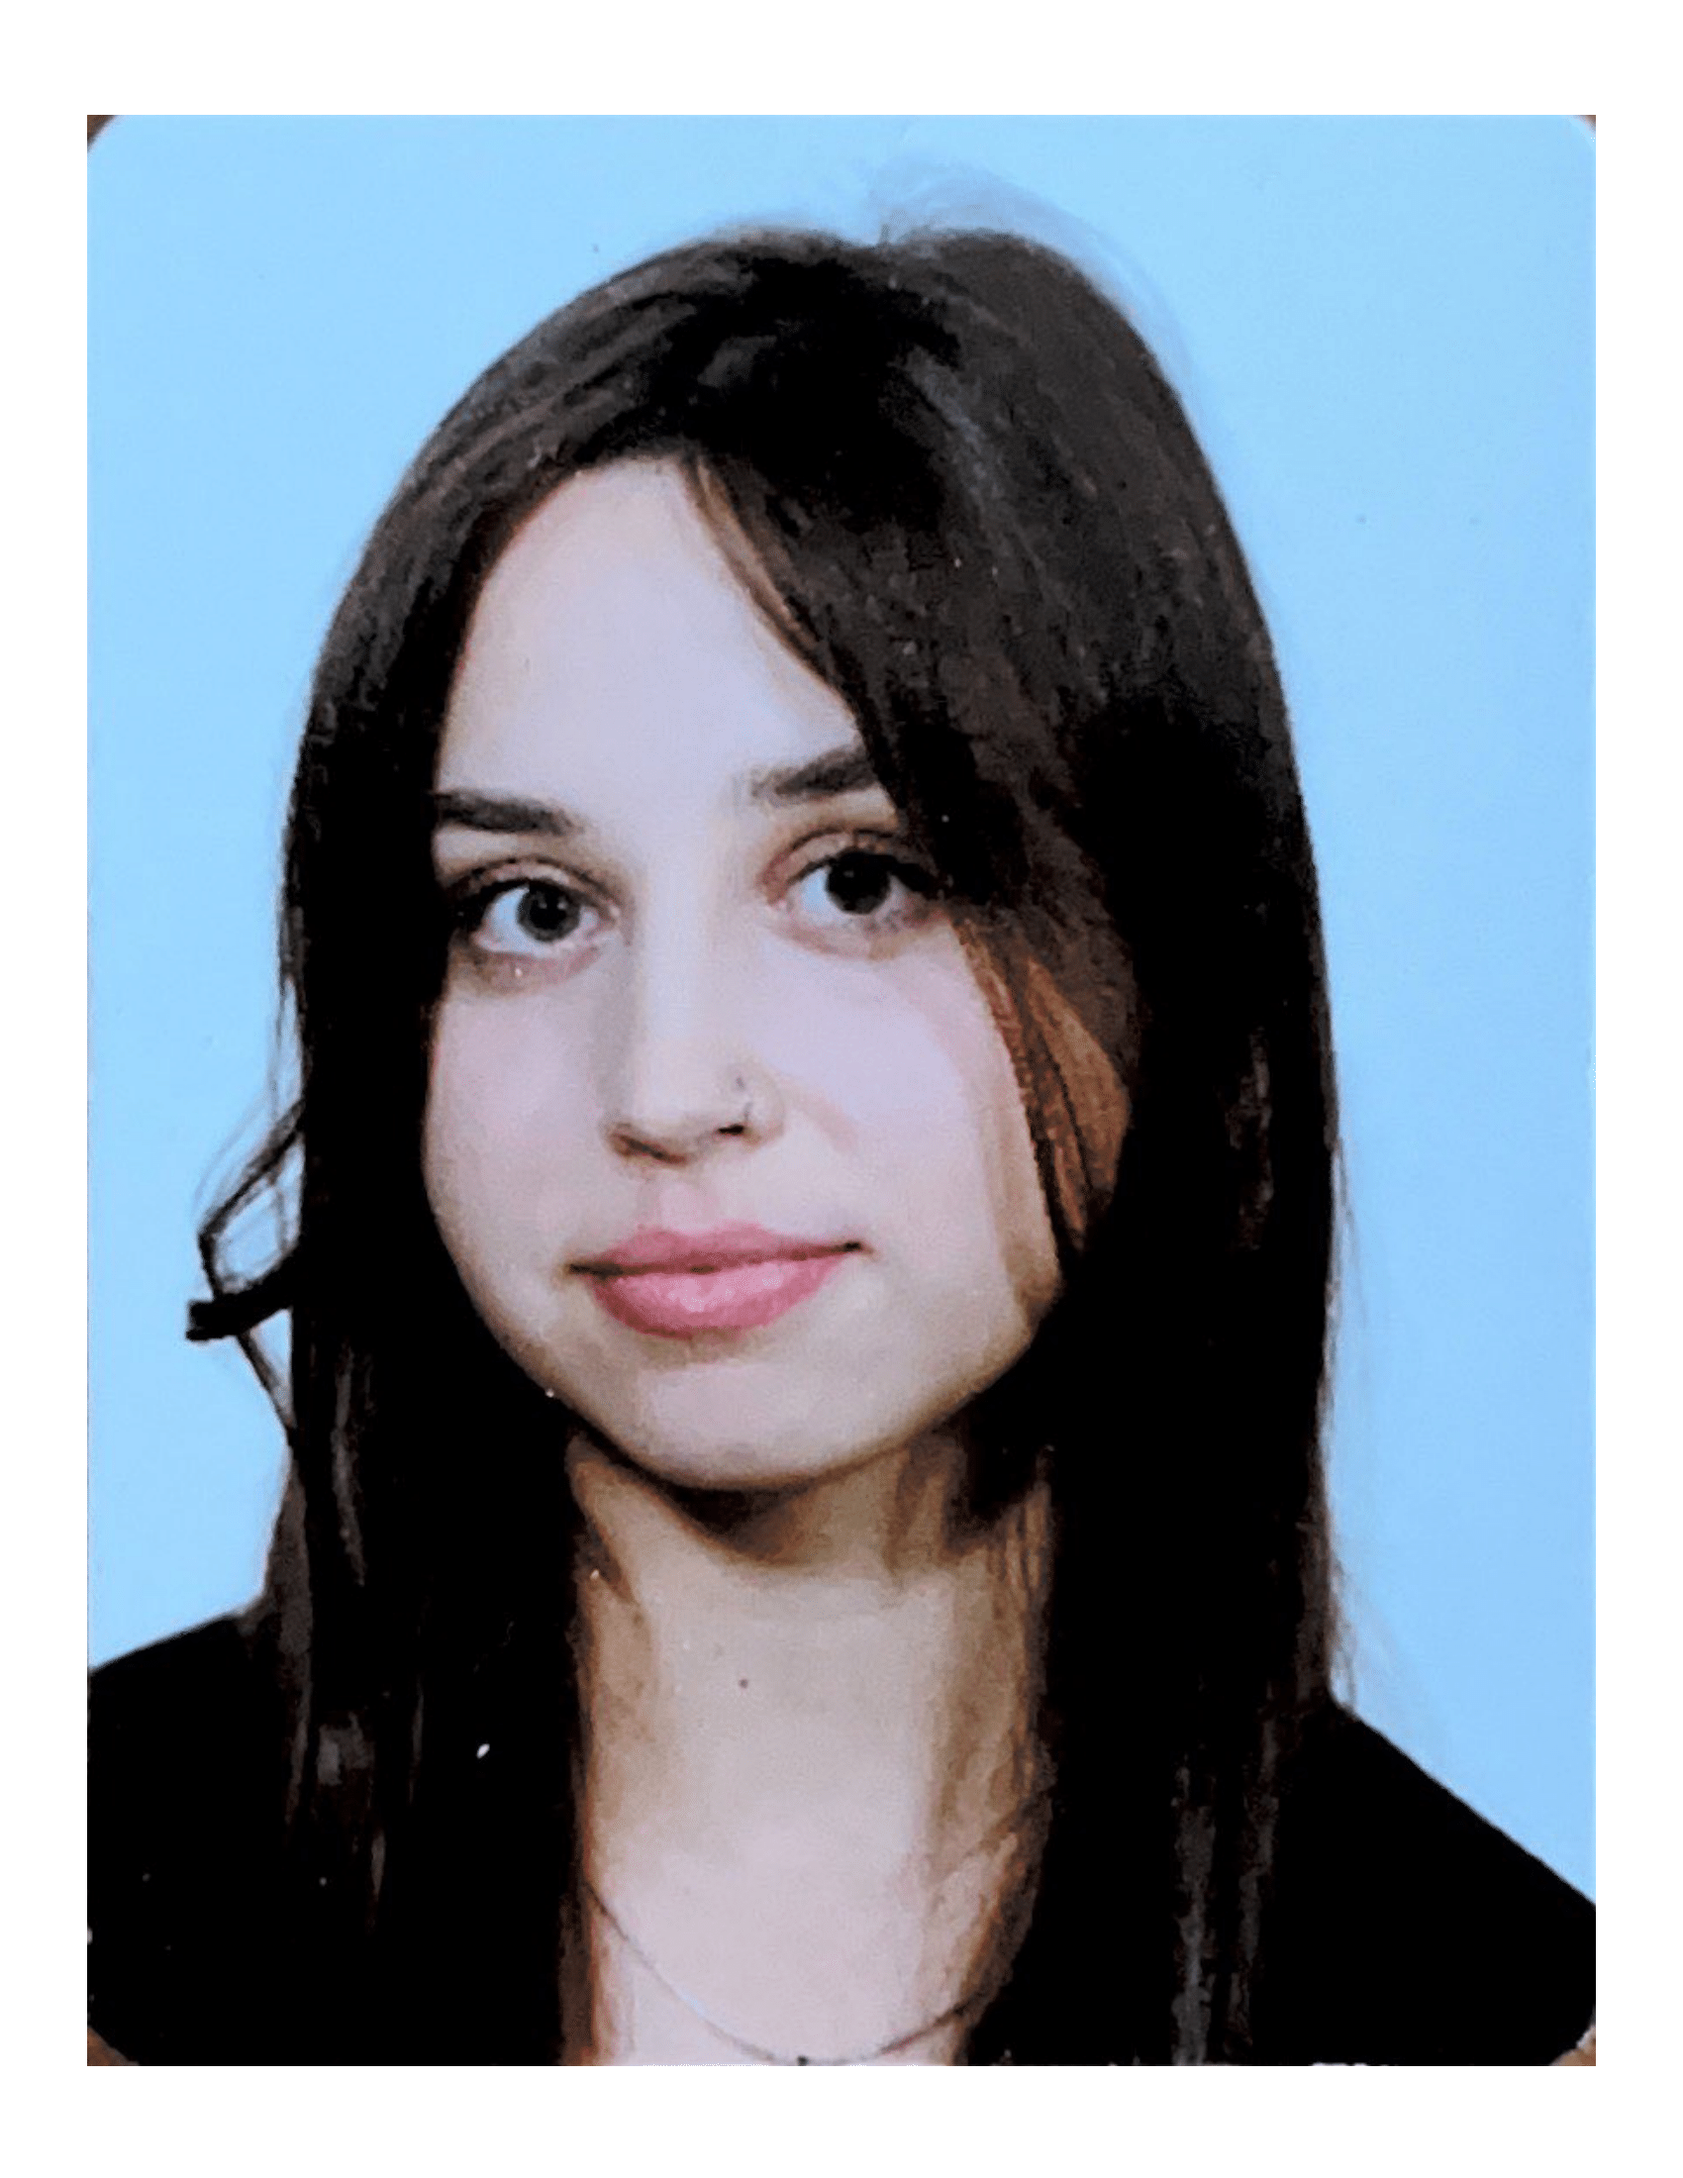
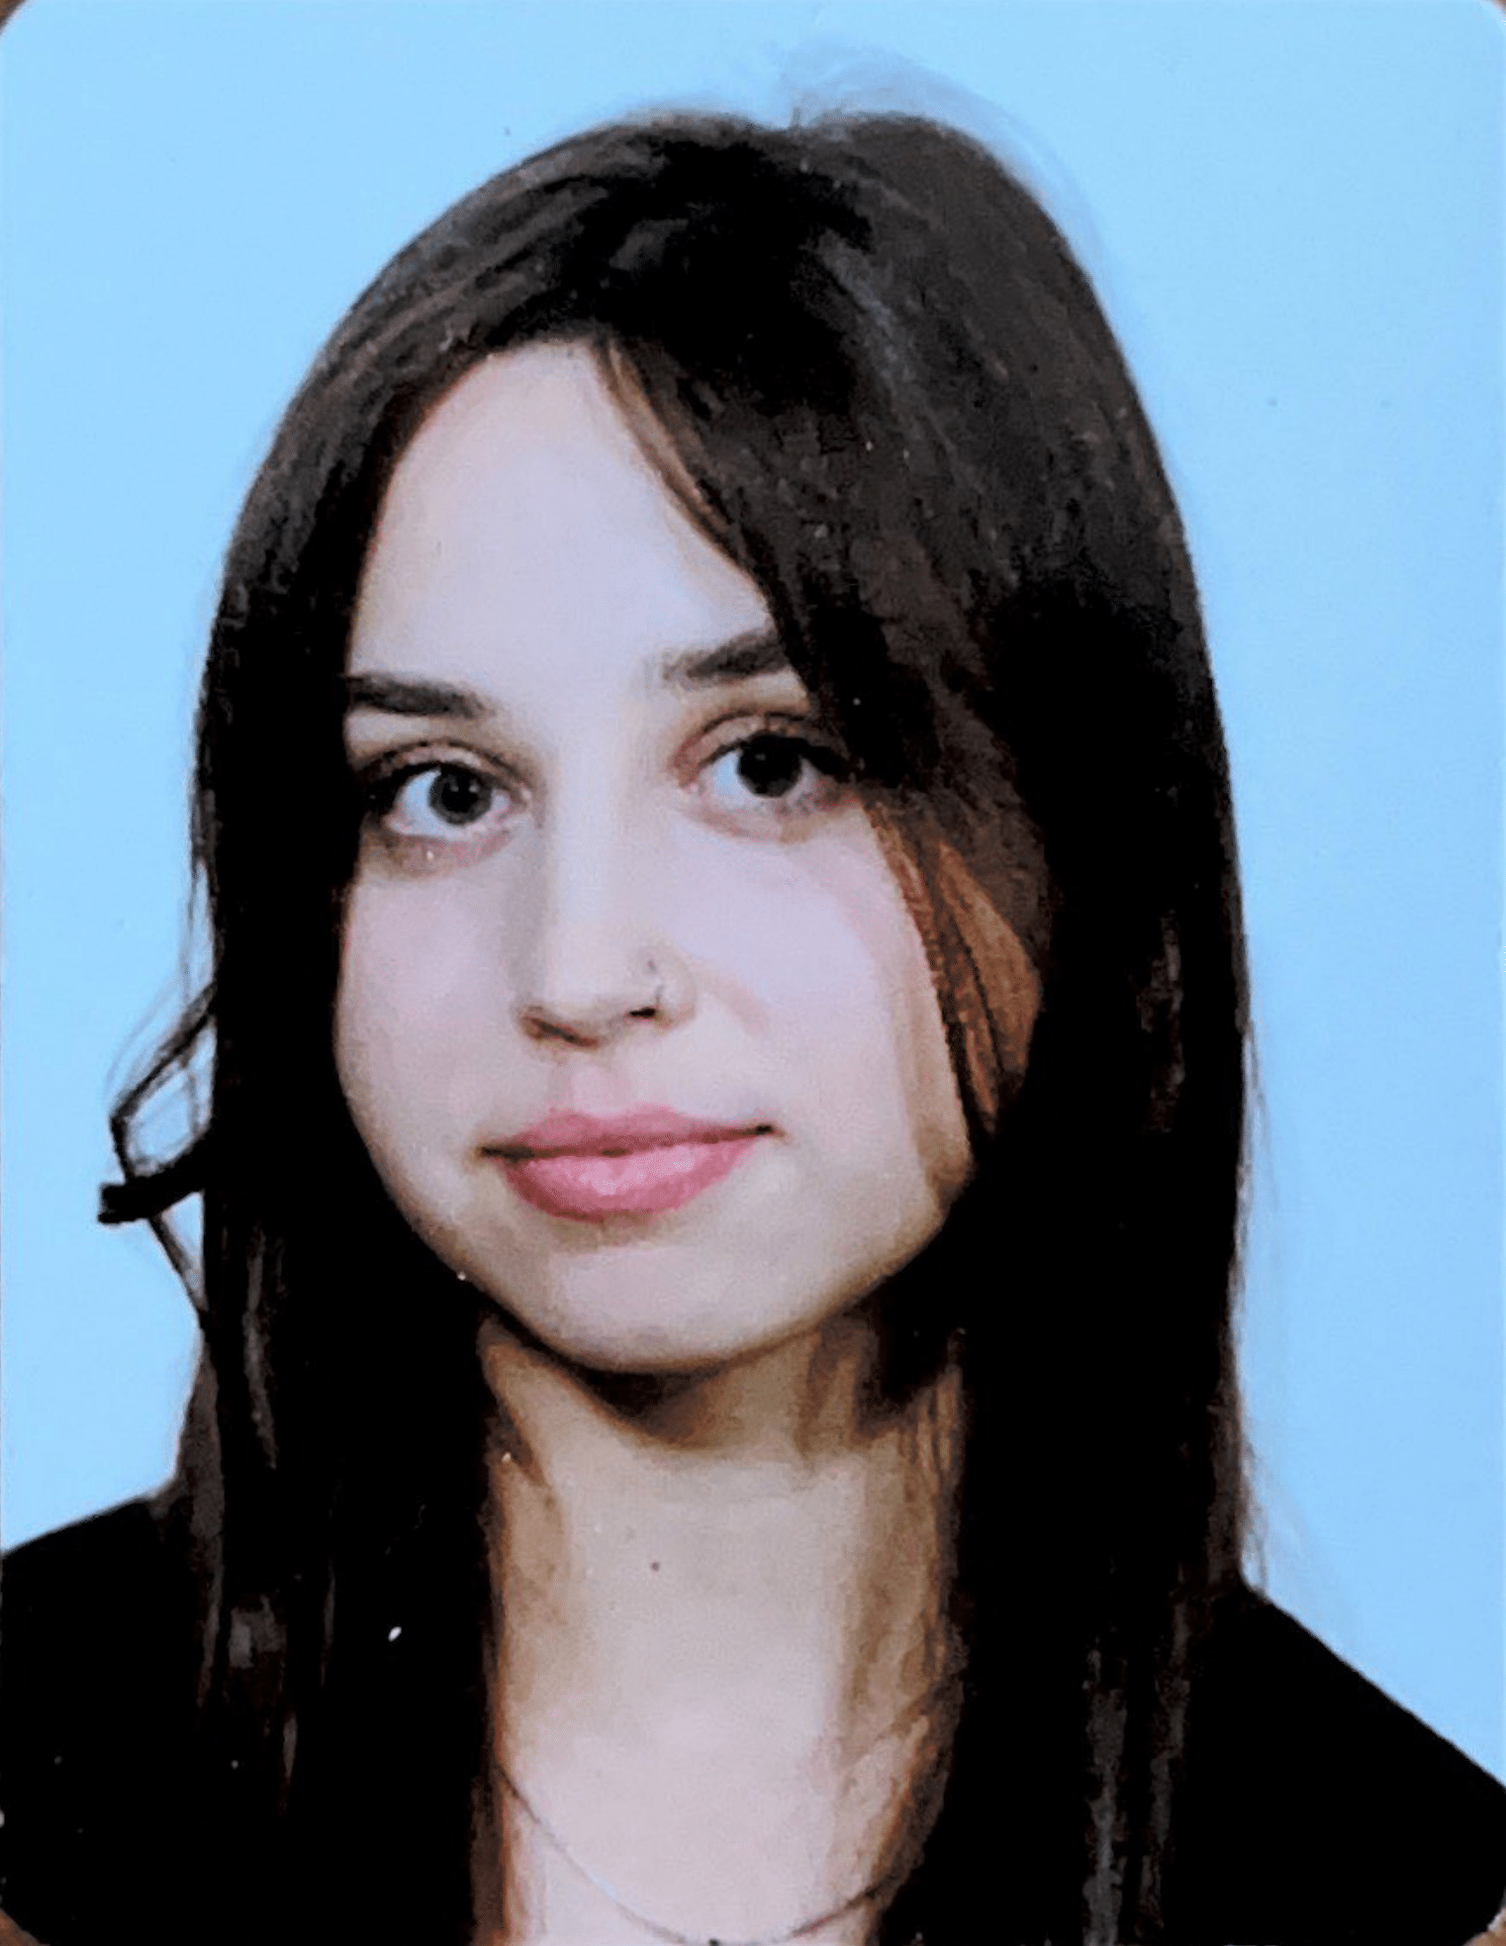
change image and name/surname

diff --git a/src/main/java/raf/dsw/classycraft/app/gui/swing/view/ScenaZaAboutUs.java b/src/main/java/raf/dsw/classycraft/app/gui/swing/view/ScenaZaAboutUs.java
@@ -5,13 +5,10 @@ package raf.dsw.classycraft.app.gui.swing.view;
 
 import lombok.Getter;
 import lombok.Setter;
-import raf.dsw.classycraft.app.controller.AbstractClassyAction;
-import raf.dsw.classycraft.app.controller.ActionManager;
 
 import javax.swing.*;
 import javax.swing.border.Border;
 import java.awt.*;
-import java.awt.image.ImageProducer;
 import java.net.URL;
 @Getter
 @Setter
@@ -28,9 +25,9 @@ public class ScenaZaAboutUs extends JFrame {
         Border border1 = BorderFactory.createLineBorder(Color.black, 3);
         gp = new GridLayout(2, 1);
 
-        l1 = new JLabel("Djordje Zlatanovic");
+        l1 = new JLabel("Đorđe Zlatanović");
         l1.setIcon(loadIcon("/images/djordje.png"));
-        l1.setFont(new Font("MV Boli", Font.PLAIN, 30));
+        l1.setFont(new Font("Arial", Font.PLAIN, 30));
         l1.setForeground(Color.white);
         l1.setBackground(Color.black);
         l1.setOpaque(true);
@@ -38,9 +35,9 @@ public class ScenaZaAboutUs extends JFrame {
         l1.setBorder(border1);
 
 
-        l2 = new JLabel("Ivana Nikolic");
+        l2 = new JLabel("Ivana Nikolić");
         l2.setIcon(loadIcon("/images/Ivana.png"));
-        l2.setFont(new Font("MV Boli", Font.PLAIN, 30));
+        l2.setFont(new Font("Arial", Font.PLAIN, 30));
         l2.setForeground(Color.white);
         l2.setBackground(Color.black);
         l2.setOpaque(true);
@@ -62,7 +59,7 @@ public class ScenaZaAboutUs extends JFrame {
         URL ImageURL = getClass().getResource(fileName);
         if(ImageURL != null){
             Image img = new ImageIcon(ImageURL).getImage();
-            Image newImg = img.getScaledInstance((screenWidth / 2) / 2, screenHeight / 2,Image.SCALE_DEFAULT);
+            Image newImg = img.getScaledInstance((screenWidth*2)/9 , screenHeight / 2,Image.SCALE_DEFAULT);
             icon = new ImageIcon(newImg);
         }
         else{
